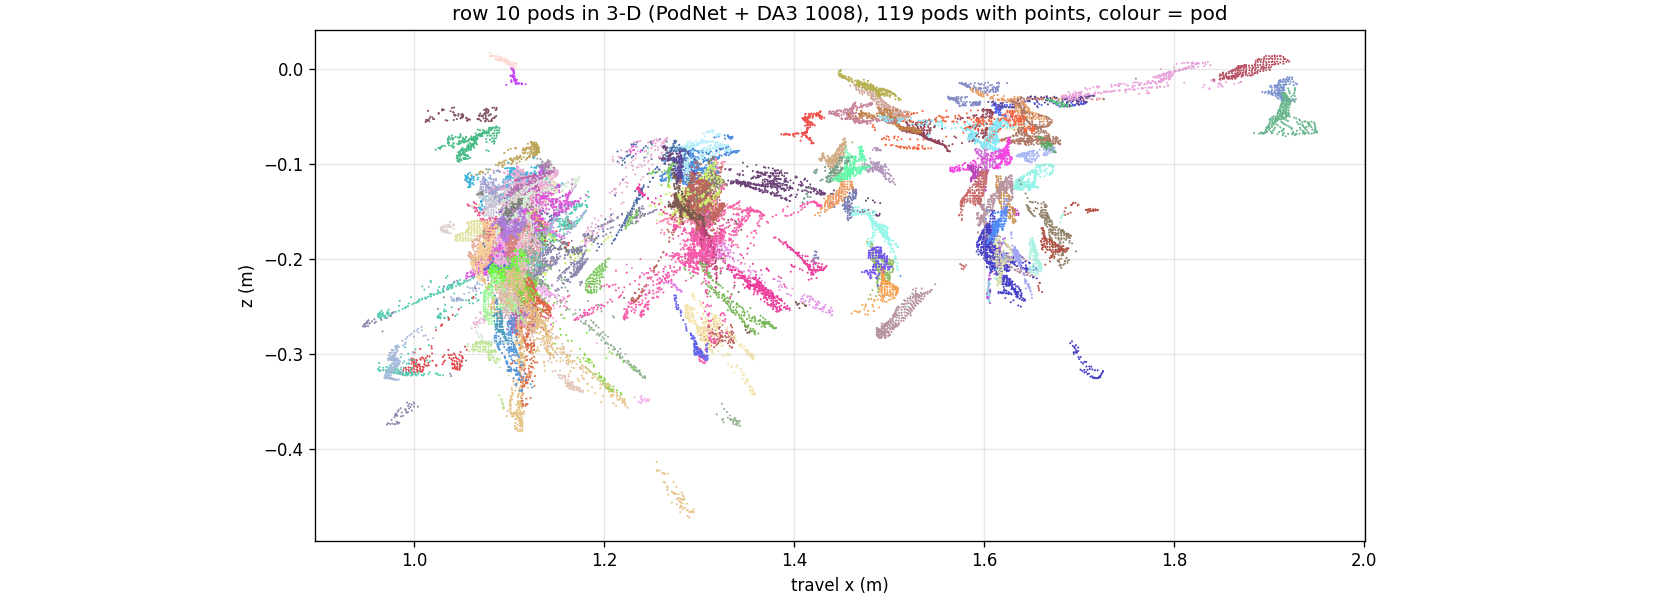
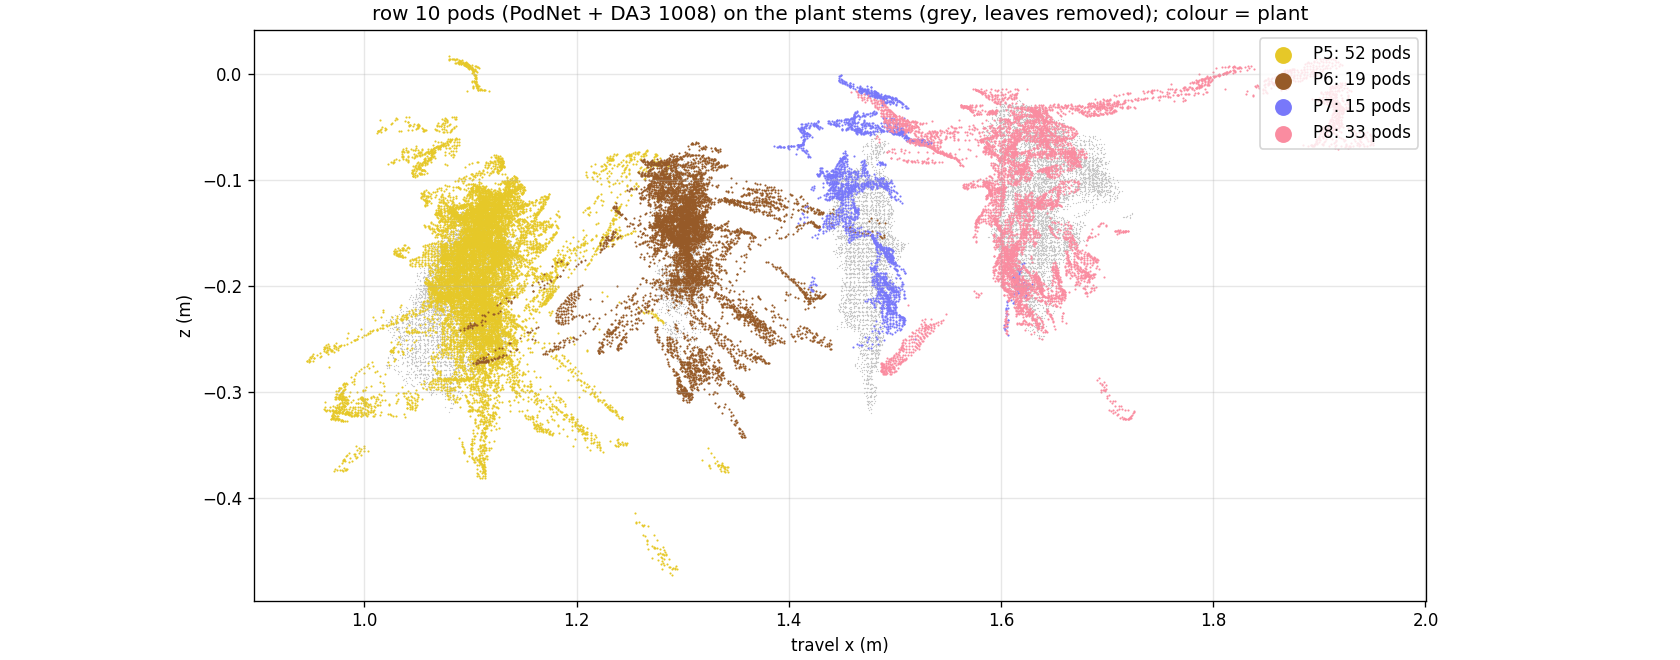
Update pod reconstruction and add P5 tracking results

diff --git a/projects/quadruped-research.md b/projects/quadruped-research.md
@@ -65,10 +65,15 @@ Three connected research directions, from environmental mapping to crop observat
 <div class="phenotyping-field-media"><figure><img src="/assets/images/soybean-sensing-platform-field.jpg" alt="Unitree quadruped sensing platform beside a soybean row during field data collection" loading="lazy"><figcaption>Quadruped sensing platform deployed beside a soybean row for close-range RGB-D data collection.</figcaption></figure><figure><video controls muted playsinline preload="metadata" poster="/assets/images/soybean-sensing-platform-video-poster.jpg" width="640" height="480" aria-label="Soybean-field sensing platform demonstration, without audio"><source src="/assets/videos/soybean-sensing-platform-silent.mp4?v=3" type="video/mp4">Your browser does not support embedded video.</video><figcaption>Field demonstration of the sensing platform moving along the soybean row. The video is presented without audio.</figcaption></figure></div>
 <h3>Preliminary Result: Pod-level Depth and 3D Reconstruction</h3>
 <p>This experiment extends the row-scale reconstruction workflow to individual soybean pods. <strong>SAM3</strong> was used to segment and track each plant and to remove leaf regions, <strong>PodNet</strong> generated pod instance masks in the original 1280 × 720 images, and <strong>DA3</strong> estimated high-resolution depth at an input resolution of 1008 pixels. Combining these models preserves pod-specific image detail while locating the detected pods in the robot-centred 3D scene.</p>
-<div class="phenotyping-result"><div><p><strong>119 pods with valid 3D points</strong> were reconstructed across four plants (P5: 52, P6: 19, P7: 15 and P8: 33), producing <strong>31,760 filtered points</strong>. PodNet also detected pods on P6–P8 that were largely missed by SAM3 text prompting alone.</p></div><ol aria-label="Pod-level 3D reconstruction workflow"><li>SAM3 plant tracking and leaf-mask removal</li><li>PodNet instance segmentation of visible pods</li><li>DA3-1008 depth extraction within each pod mask</li><li>Robot-pose transformation, multi-view association and 3D fusion</li></ol></div>
-<p>For every observation, only DA3 depth values inside the PodNet masks were retained and corrected using the station-specific depth scale. Sampled pod pixels were transformed with the robot pose, associated with the nearest multi-view pod cluster within 2.5 cm, merged on a 3 mm grid and filtered to remove outliers. A consistent colour identifies the same reconstructed pod across views.</p>
+<div class="phenotyping-result"><div><p>The reconstruction contains <strong>31,760 filtered pod points</strong> across four plants. PodNet also detected pods on P6–P8 that were largely missed by SAM3 text prompting alone. The displayed plant-level totals are provisional 3D clusters, not validated pod counts, because the same pod can shift by several centimetres between viewpoints.</p></div><ol aria-label="Pod-level 3D reconstruction workflow"><li>SAM3 plant tracking and leaf-mask removal</li><li>PodNet instance segmentation of visible pods</li><li>DA3-1008 depth extraction within each pod mask</li><li>Robot-pose transformation and 3D fusion</li></ol></div>
+<p>For every observation, only DA3 depth values inside the PodNet masks were retained and corrected using the station-specific depth scale. Sampled pod pixels were transformed with the robot pose, merged on a 3 mm grid and filtered to remove outliers. In the updated reconstruction, the leaf-removed plant point clouds are shown in grey and the PodNet pod points are coloured by plant.</p>
 <p>The resulting depth maps reveal front-to-back variation among pods within dense clusters. In 3D, pods on P5 form a compact group near <em>x</em> ≈ 1.1 m, whereas those on P8 are distributed more broadly in height near <em>x</em> ≈ 1.6 m. Because a pod is only about 20–40 pixels wide in the source images, depth mixing at object boundaries can elongate some reconstructed points; this remains a limitation of close-range monocular depth estimation. PodNet was restored from the <a href="https://github.com/Boatsure/PodNet" target="_blank" rel="noopener">PodSeg/PodNet project</a> (Plant Phenomics, 2025).</p>
-<div class="phenotyping-output-stack"><figure><img src="/assets/images/soybean-pod-depth-check.jpg" alt="PodNet soybean pod masks with DA3-1008 depth for observation stations st020 and st026" loading="lazy"><figcaption><strong>Depth verification.</strong> Pod-level masks and retained DA3 depth for representative observation stations.</figcaption></figure><figure><img src="/assets/images/soybean-pod-3d-side.png" alt="Side view of reconstructed soybean pods coloured by 3D pod identity" loading="lazy"><figcaption><strong>Reconstructed pod distribution.</strong> Side view of the fused 3D points, coloured by pod identity.</figcaption></figure></div>
+<div class="phenotyping-output-stack"><figure><img src="/assets/images/soybean-pod-depth-check.jpg?v=2" alt="PodNet soybean pod masks with DA3-1008 depth for observation stations st020 and st026" loading="lazy"><figcaption><strong>Depth verification.</strong> Pod-level masks and retained DA3 depth for representative observation stations.</figcaption></figure><figure><img src="/assets/images/soybean-pod-3d-side.png?v=2" alt="Side view of reconstructed soybean pod points coloured by plant over grey leaf-removed plant structures" loading="lazy"><figcaption><strong>Updated pod reconstruction.</strong> PodNet pod points coloured by plant over the leaf-removed plant point clouds shown in grey.</figcaption></figure></div>
+
+<h4>P5: SAM3-tracked Pods to Pod-specific Depth and 3D Point Clouds</h4>
+<p>For plant P5, PodNet detections observed in at least two frames were used as prompts for a single SAM3 video-tracking session. SAM3 propagated each pod identity forward and backward through the 39-frame sequence, recovering masks in frames where PodNet did not produce a detection. Quality checks retained masks with plausible area, sufficient overlap with the P5 plant region and a 3D centre within 4 cm of the corresponding pod track.</p>
+<p>After eroding each mask by two pixels, station-corrected DA3-1008 depth was retained near the frame-wise median to reduce boundary mixing. Multi-view points were aligned along the camera ray, refined to the clearest reference frame with ICP, merged on a 2 mm grid and filtered for outliers. This produced pod-specific 3D point clouds for <strong>24 consistently tracked pods</strong> and <strong>12,022 points</strong>. The median estimated pod length was <strong>4.2 cm</strong> (10th–90th percentile: 2.9–5.2 cm).</p>
+<div class="phenotyping-output-stack"><figure><img src="/assets/images/soybean-p5-sam3-tracking.jpg" alt="P5 soybean pod image, DA3-1008 depth and PodNet plus SAM3 tracked pod masks" loading="lazy"><figcaption><strong>P5 pod tracking and depth.</strong> The same pod number is maintained across frames; filled masks are PodNet detections and outlined masks are recovered by SAM3 tracking.</figcaption></figure><figure><img src="/assets/images/soybean-p5-pod-3d-side.png" alt="Photo-coloured and pod-identity-coloured 3D point clouds of 24 SAM3-tracked P5 soybean pods" loading="lazy"><figcaption><strong>P5 pod-specific 3D reconstruction.</strong> Photo-coloured points (left) and the same points coloured by tracked pod identity (right), over the leaf-removed P5 structure.</figcaption></figure></div>
 
 </section>
 
